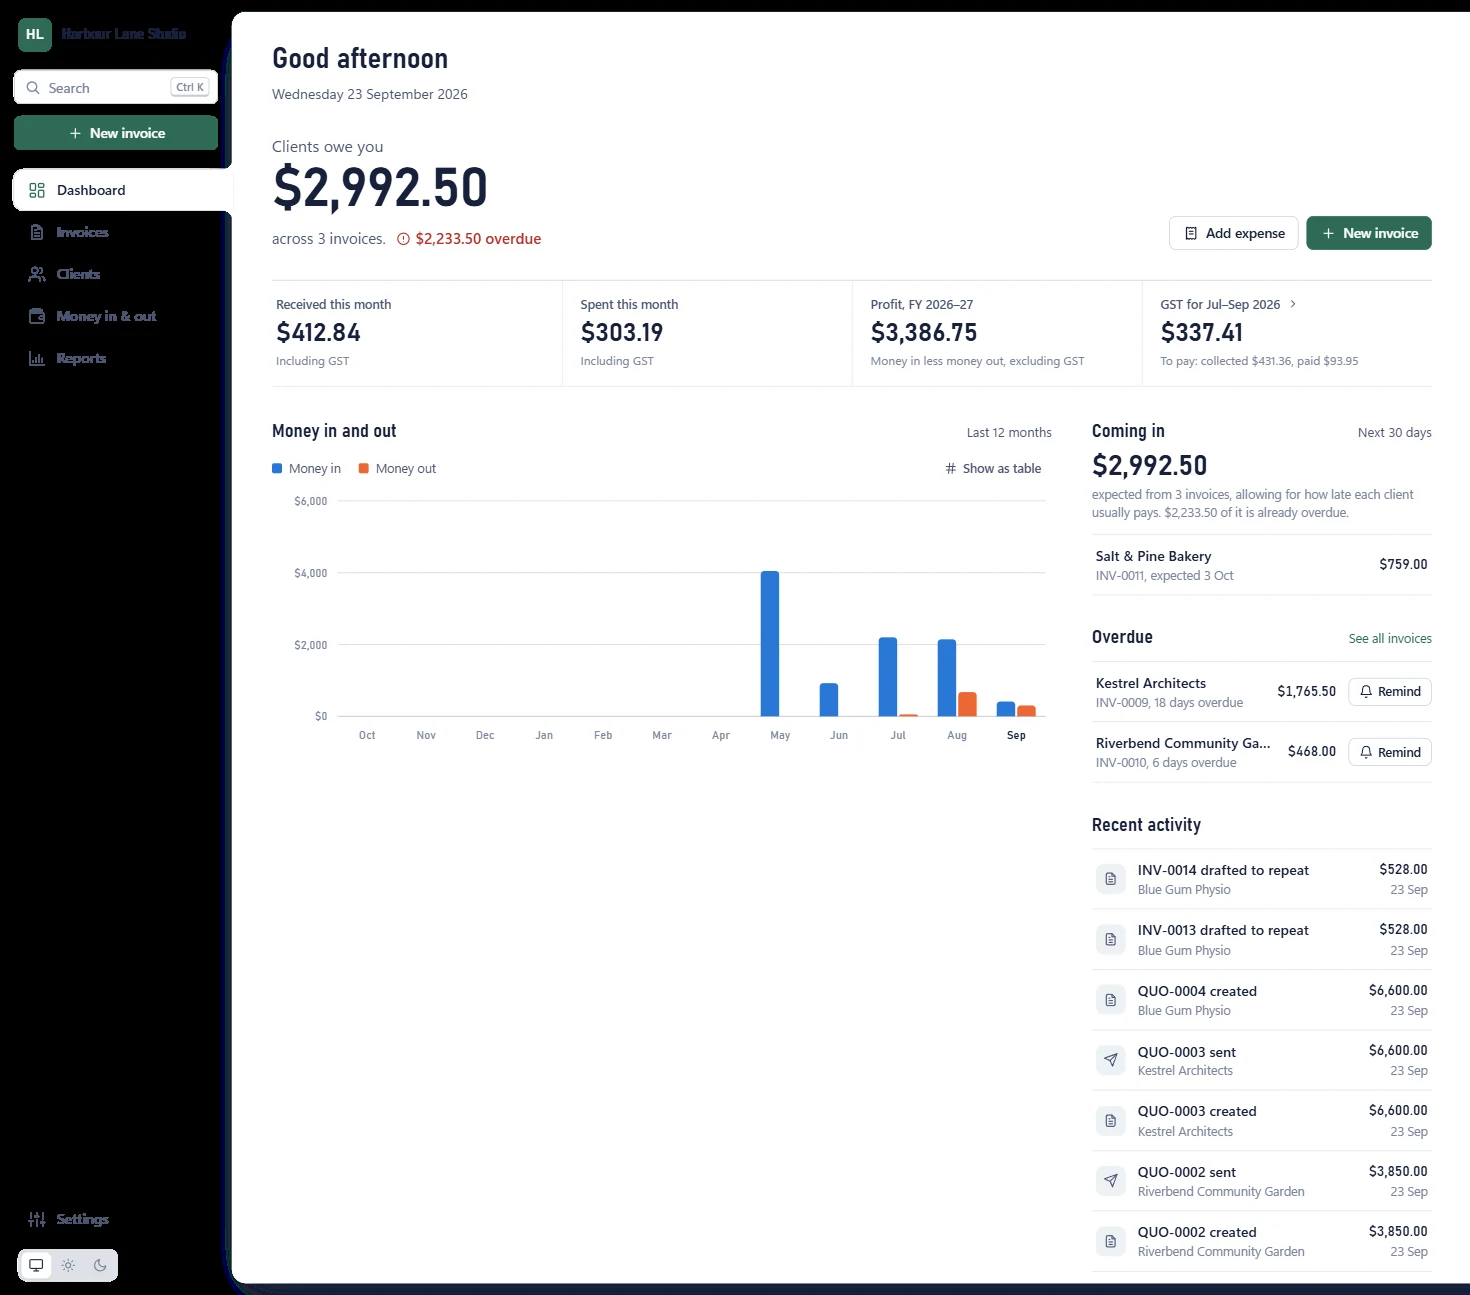
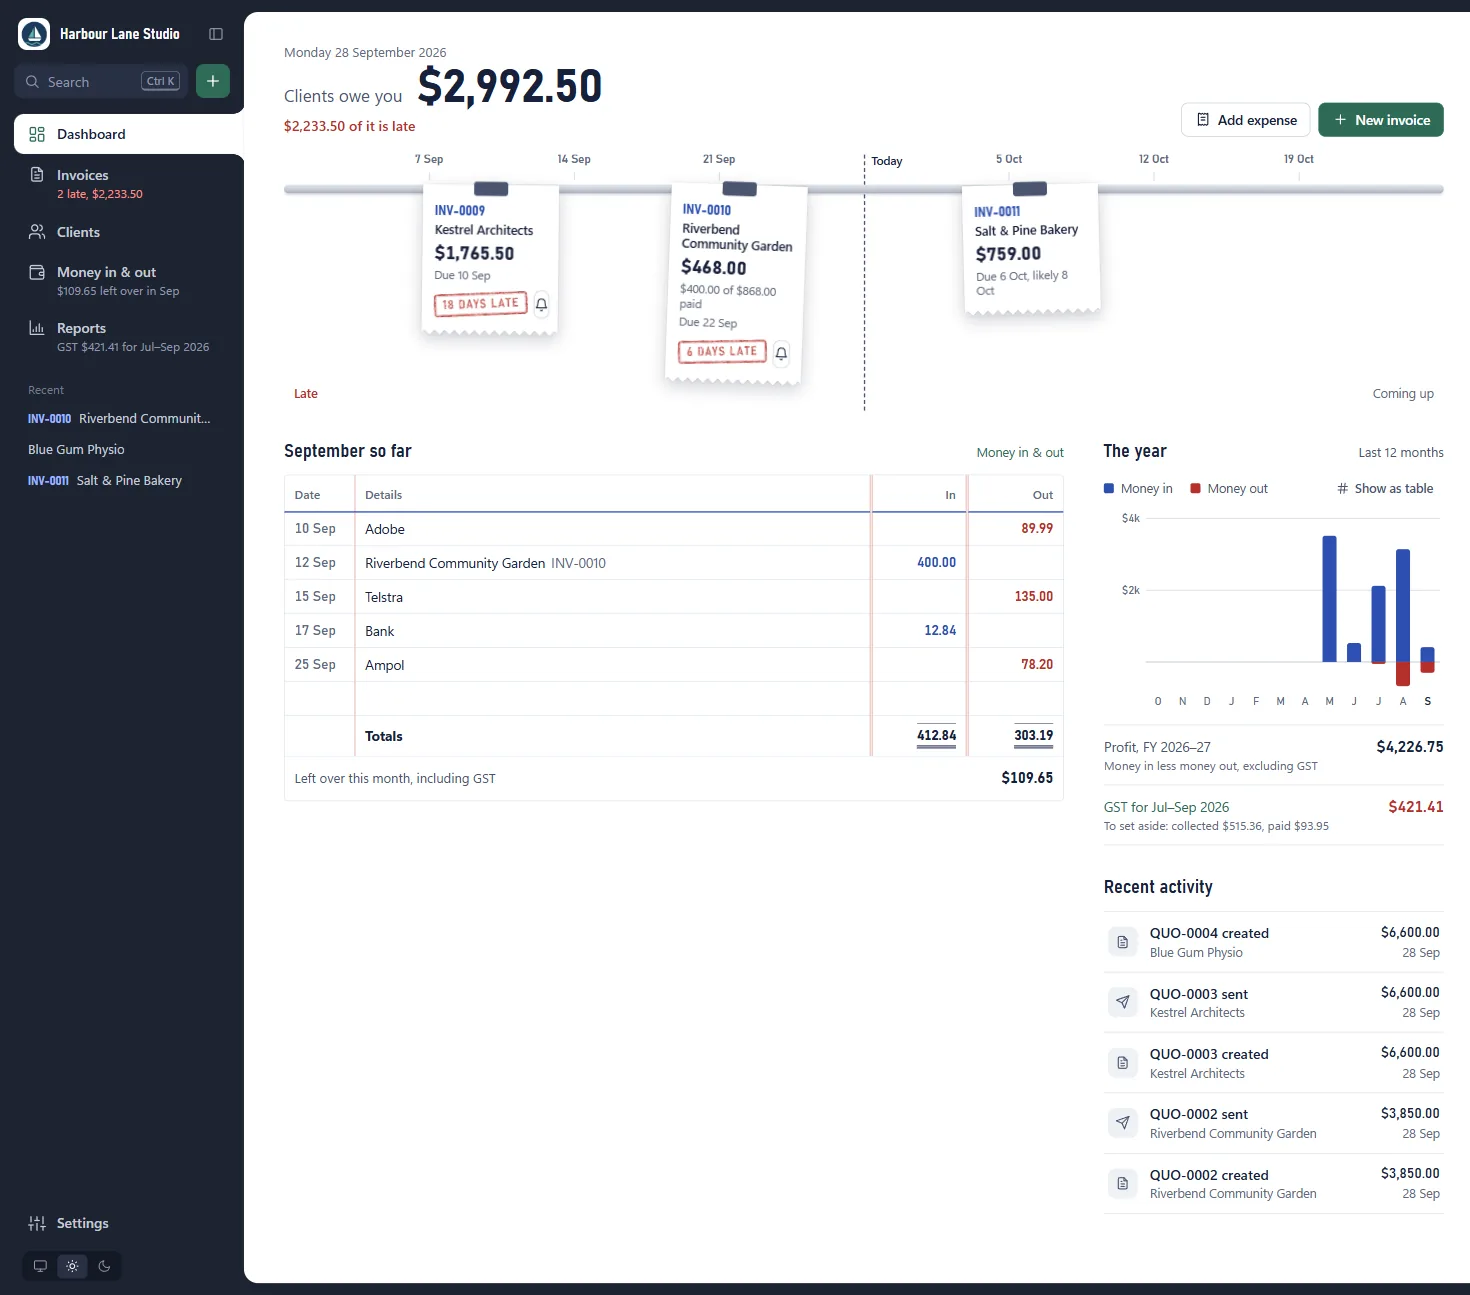
new screenshots with the ticket rail and graphite menu

diff --git a/index.html b/index.html
@@ -363,14 +363,14 @@ footer { padding-block: 0 48px; display: flex; flex-wrap: wrap; justify-content:
       <div class="feature-copy">
         <span class="eyebrow">Getting paid</span>
         <h2>Know who owes you, and chase them politely</h2>
-        <p>Every invoice carries your ABN, the GST and the "Tax invoice" heading. The dashboard shows what's owed, what's overdue and your GST for the quarter.</p>
+        <p>Every invoice carries your ABN, the GST and the "Tax invoice" heading. Unpaid invoices hang on the dashboard at their due date, stamped with how late they are, above this month's cash book and your GST for the quarter.</p>
         <ul class="ticks">
           <li>Email an invoice in one click, with the PDF attached in classic Outlook</li>
           <li>Chase late payers with a friendly, firm or final reminder</li>
           <li>Quotes that turn into invoices, and invoices that repeat monthly</li>
         </ul>
       </div>
-      <img class="shot" src="img/dashboard.webp" width="1470" height="1295" alt="The dashboard showing $2,992.50 owed by clients, money in and out, profit for the financial year and GST for the July to September quarter">
+      <img class="shot" src="img/dashboard.webp" width="1470" height="1295" alt="The dashboard showing $2,992.50 owed by clients, two invoices stamped late on a rail of due dates, and September's cash book">
     </section>
 
     <section class="feature flip">
@@ -394,7 +394,7 @@ footer { padding-block: 0 48px; display: flex; flex-wrap: wrap; justify-content:
           <div><b>1B</b><span>GST on purchases</span></div>
         </div>
       </div>
-      <img class="shot" src="img/reports.webp" width="1500" height="1295" alt="The BAS worksheet for July to September 2026: G1 $4,757.84, 1A $431.36, 1B $93.95, GST to pay $337.41">
+      <img class="shot" src="img/reports.webp" width="1500" height="1295" alt="The BAS worksheet for July to September 2026: G1 $5,681.84, 1A $515.36, 1B $93.95, GST to pay $421.41">
     </section>
 
     <section class="countries" id="countries">
